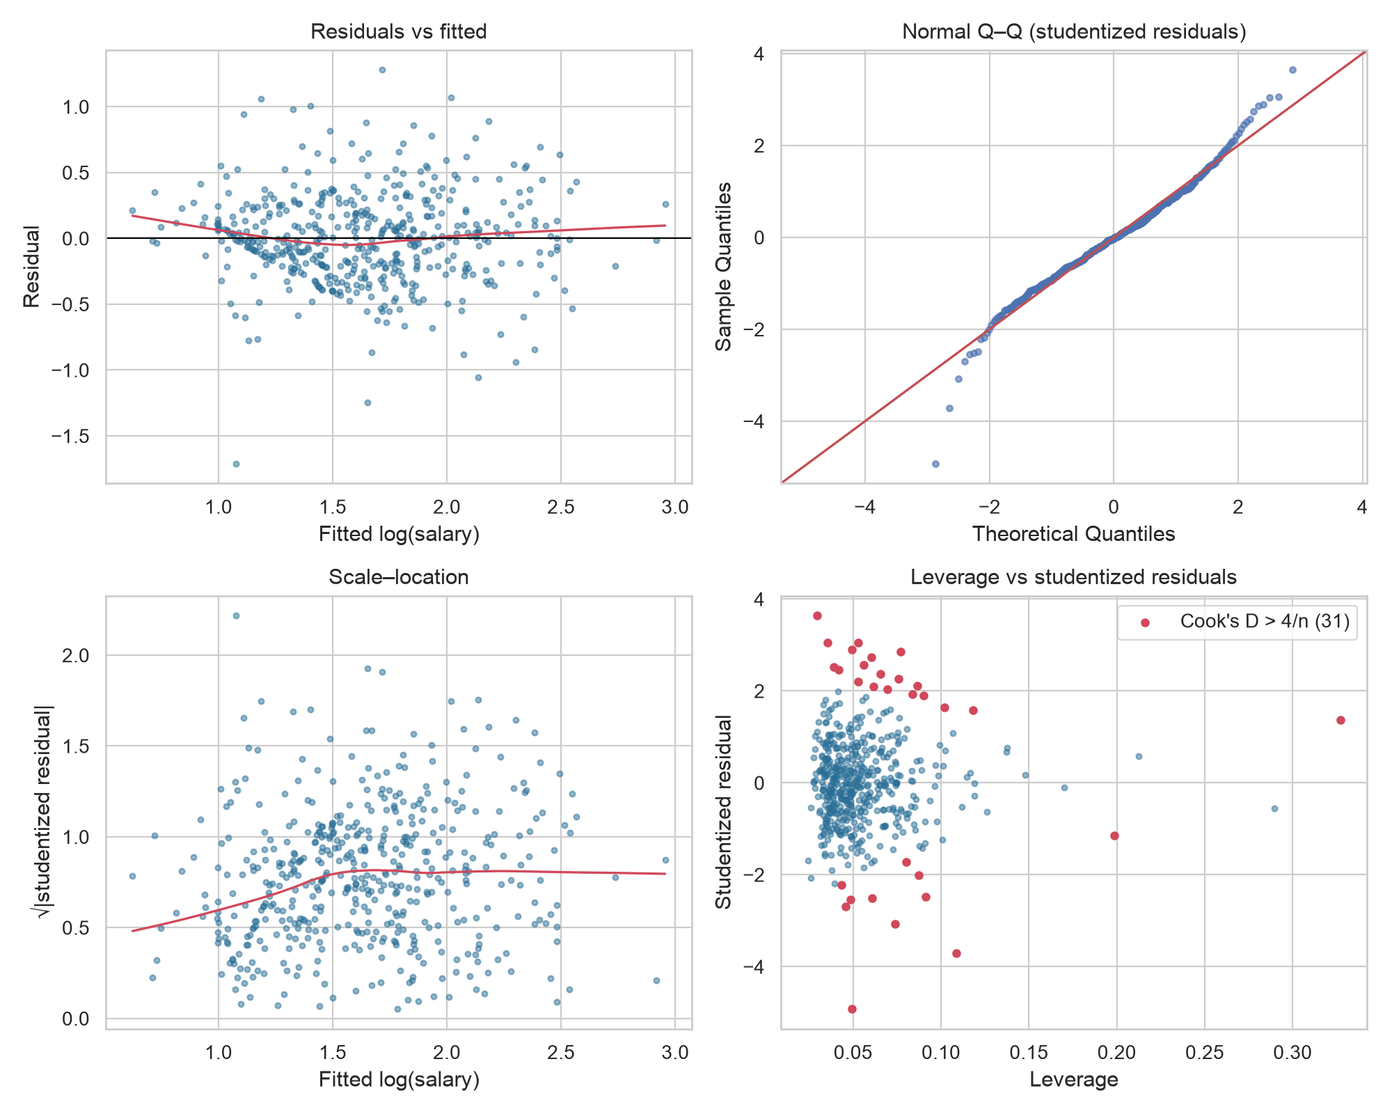
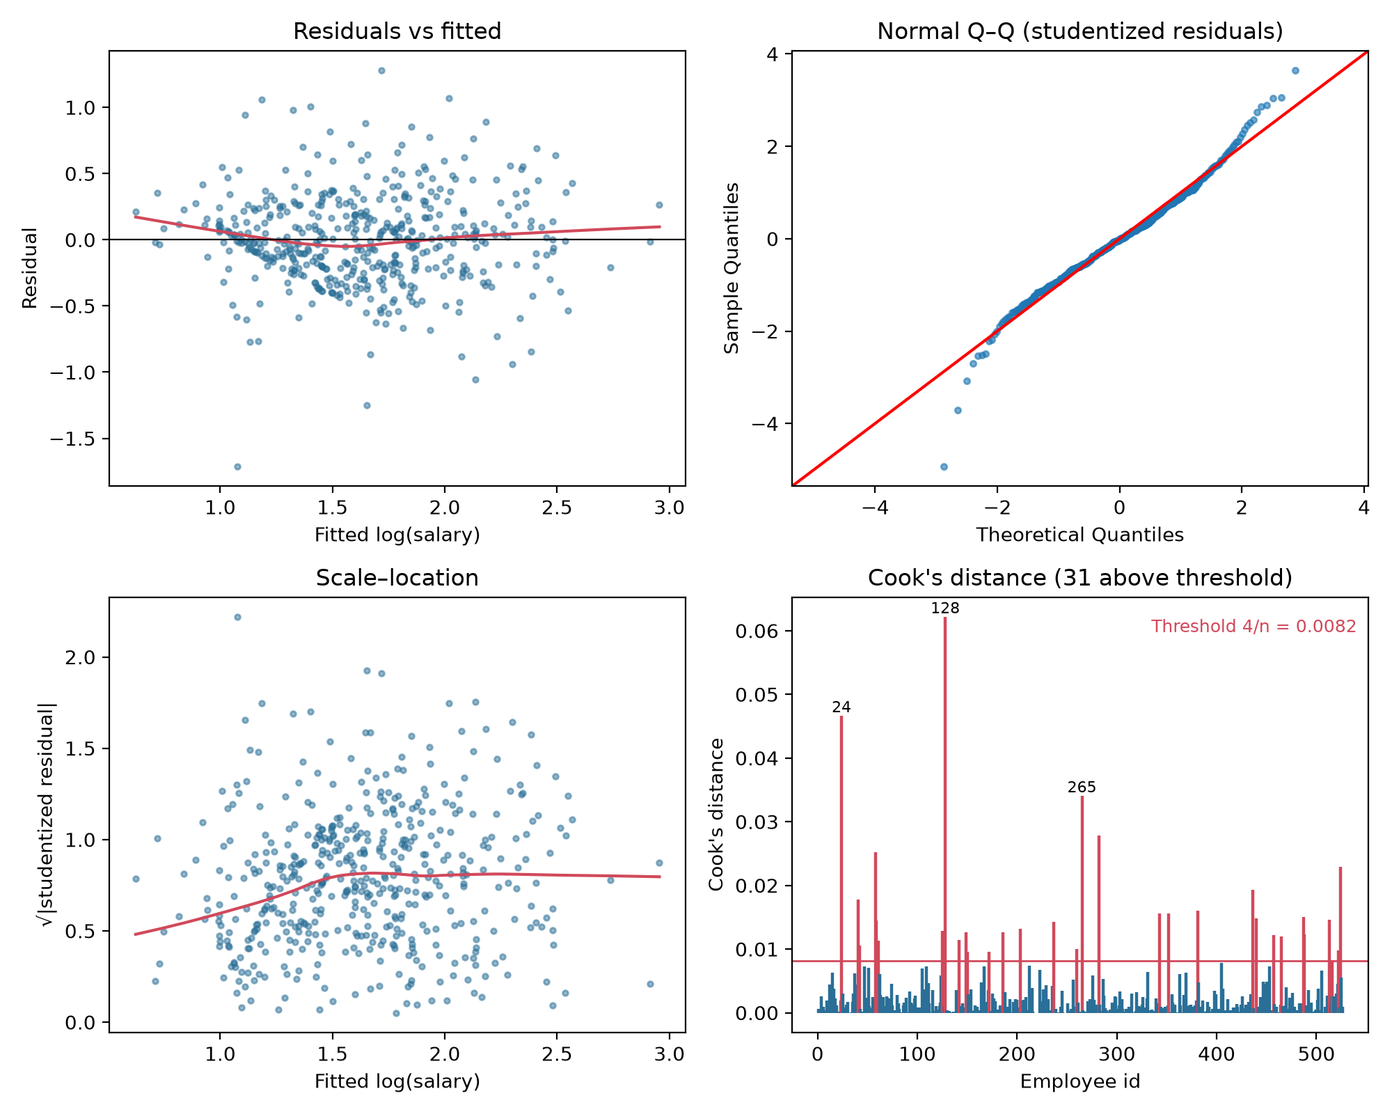
feat(diagnostics): add full White and Breusch-Godfrey tests and Cook's distance bar plot

diff --git a/src/04_diagnostics.py b/src/04_diagnostics.py
@@ -2,8 +2,8 @@
 
 Covers multicollinearity (VIF, condition number), heteroskedasticity (Breusch-Pagan,
 White), functional-form specification (Ramsey RESET), residual normality
-(Jarque-Bera), independence (Durbin-Watson), influential observations (Cook's
-distance) and robustness of the conclusions to alternative samples and estimators.
+(Jarque-Bera), independence (Durbin-Watson, Breusch-Godfrey), influential observations
+(Cook's distance) and robustness of the conclusions to alternative samples and estimators.
 """
 
 import matplotlib
@@ -15,7 +15,8 @@ import pandas as pd
 import statsmodels.api as sm
 import statsmodels.formula.api as smf
 from patsy import dmatrices
-from statsmodels.stats.diagnostic import het_breuschpagan, het_white, linear_reset
+from scipy import stats
+from statsmodels.stats.diagnostic import acorr_breusch_godfrey, het_breuschpagan, het_white, linear_reset
 from statsmodels.stats.outliers_influence import variance_inflation_factor
 from statsmodels.stats.stattools import durbin_watson, jarque_bera
 
@@ -32,22 +33,44 @@ def vif_table(formula, data) -> pd.Series:
                       if c != "Intercept"})
 
 
+def white_full(m) -> tuple[float, float, int]:
+    """Full White test: regress e² on the regressors, their squares and cross-products.
+
+    statsmodels' het_white counts every generated column, but here many are duplicates
+    (a 0/1 variable squared is itself) or identically zero (products of categories that
+    cannot occur together). Those columns are dropped and the degrees of freedom are the
+    rank of what remains, so the chi-squared test is correctly sized.
+    """
+    X = m.model.exog[:, 1:]  # drop the constant
+    k = X.shape[1]
+    cols = [X[:, i] for i in range(k)] + [X[:, i] * X[:, j] for i in range(k) for j in range(i, k)]
+    Z = np.unique(np.round(np.column_stack(cols), 10), axis=1)
+    Z = Z[:, Z.std(axis=0) > 0]
+    aux = sm.OLS(m.resid ** 2, sm.add_constant(Z)).fit()
+    df = np.linalg.matrix_rank(Z)
+    lm = len(m.resid) * aux.rsquared
+    return float(lm), float(stats.chi2.sf(lm, df)), int(df)
+
+
 def diagnostics(name, m) -> dict:
     exog = m.model.exog
     bp = het_breuschpagan(m.resid, exog)
-    # Special form of the White test (Wooldridge): regress e² on ŷ and ŷ². The full White
-    # test is not identified here because squares of the many dummies duplicate them.
+    wf, wfp, wdf = white_full(m)
+    # Special form of the White test (Wooldridge): regress e² on ŷ and ŷ².
     wh = het_white(m.resid, sm.add_constant(m.fittedvalues))
+    bg = acorr_breusch_godfrey(m, nlags=1, result_object=False)
     r2 = linear_reset(m, power=2, use_f=True)
     r23 = linear_reset(m, power=3, use_f=True)
     jb, jbp, sk, ku = jarque_bera(m.resid)
     return {"Model": name,
             "Breusch-Pagan LM": bp[0], "BP p": bp[1],
+            "White (full) LM": wf, "White (full) df": wdf, "White (full) p": wfp,
             "White (special) LM": wh[0], "White p": wh[1],
             "RESET F (ŷ²)": float(r2.fvalue), "RESET p (ŷ²)": float(r2.pvalue),
             "RESET F (ŷ², ŷ³)": float(r23.fvalue), "RESET p (ŷ², ŷ³)": float(r23.pvalue),
             "Jarque-Bera": jb, "JB p": jbp, "Skew": sk, "Kurtosis": ku,
             "Durbin-Watson": durbin_watson(m.resid),
+            "Breusch-Godfrey LM (lag 1)": bg[0], "BG p": bg[1],
             "Condition no.": np.linalg.cond(m.model.exog)}
 
 
@@ -107,12 +130,12 @@ def main() -> None:
                     sample.assign(resid=ols_pref.resid)).fit()
     weights = 1 / np.exp(w_aux.fittedvalues)
     robust = {
-        f"{PREFERRED} baseline": rob_pref,
-        "M6 (fewer interactions)": fit(FORMULAS["M6"], sample),
-        "Original values (no imputation)": fit(f_pref, original),
-        "Drop imputed rows": fit(f_pref, sample[~imputed_rows]),
-        "Drop influential (Cook's D > 4/n)": fit(f_pref, sample[~influential]),
-        "FGLS (WLS on estimated variance)": smf.wls(f_pref, sample, weights=weights).fit(cov_type="HC3"),
+        PREFERRED: rob_pref,
+        "M6": fit(FORMULAS["M6"], sample),
+        "Original values": fit(f_pref, original),
+        "Drop imputed": fit(f_pref, sample[~imputed_rows]),
+        "Drop influential": fit(f_pref, sample[~influential]),
+        "WLS": smf.wls(f_pref, sample, weights=weights).fit(cov_type="HC3"),
     }
     tab = side_by_side(robust)
     keep = [label(t) for t in ["edu", "I(edu ** 2)", "exper", "I(exper ** 2)", "ten", "I(ten ** 2)", "female",
@@ -139,11 +162,16 @@ def main() -> None:
     lw = sm.nonparametric.lowess(sl, fitted)
     ax[1, 0].plot(lw[:, 0], lw[:, 1], color=ORANGE)
     ax[1, 0].set(title="Scale–location", xlabel="Fitted log(salary)", ylabel="√|studentized residual|")
-    ax[1, 1].scatter(infl.hat_matrix_diag, stud, s=8, alpha=.5, color=BLUE)
-    big = np.where(influential)[0]
-    ax[1, 1].scatter(infl.hat_matrix_diag[big], stud[big], s=14, color=ORANGE, label=f"Cook's D > 4/n ({len(big)})")
-    ax[1, 1].set(title="Leverage vs studentized residuals", xlabel="Leverage", ylabel="Studentized residual")
-    ax[1, 1].legend()
+    # Cook's distance bar plot with the 4/n threshold (the course's ols_plot_cooksd_bar).
+    ids = sample["id"].astype(int).to_numpy()
+    ax[1, 1].vlines(ids, 0, cooks, colors=np.where(influential, ORANGE, BLUE), lw=1.6)
+    ax[1, 1].axhline(cut, color=ORANGE, lw=1)
+    ax[1, 1].text(0.98, 0.95, f"Threshold 4/n = {cut:.4f}", transform=ax[1, 1].transAxes,
+                  ha="right", va="top", color=ORANGE, fontsize=9)
+    for i in np.argsort(cooks)[-3:]:
+        ax[1, 1].annotate(str(ids[i]), (ids[i], cooks[i]), fontsize=8, ha="center", va="bottom")
+    ax[1, 1].set(title=f"Cook's distance ({int(influential.sum())} above threshold)",
+                 xlabel="Employee id", ylabel="Cook's distance")
     fig.tight_layout()
     fig.savefig(FIG_DIR / "fig6_residual_diagnostics.png", dpi=200)
     plt.close(fig)
@@ -197,7 +225,10 @@ def main() -> None:
         "reset_log_p2": pr["RESET p (ŷ²)"], "reset_level_p": lvl["RESET p (ŷ², ŷ³)"],
         "jb_log": pr["Jarque-Bera"], "jb_log_p": pr["JB p"], "skew_resid": pr["Skew"], "kurt_resid": pr["Kurtosis"],
         "jb_level": lvl["Jarque-Bera"], "skew_resid_level": lvl["Skew"],
-        "dw": pr["Durbin-Watson"], "cond_raw": pr["Condition no."], "cond_centred": np.linalg.cond(ols_c.model.exog),
+        "dw": pr["Durbin-Watson"], "bg": pr["Breusch-Godfrey LM (lag 1)"], "bg_p": pr["BG p"],
+        "white_full_log": pr["White (full) LM"], "white_full_log_p": pr["White (full) p"],
+        "white_full_log_df": pr["White (full) df"], "white_full_level_p": lvl["White (full) p"],
+        "white_full_m3_p": m3["White (full) p"], "cond_raw": pr["Condition no."], "cond_centred": np.linalg.cond(ols_c.model.exog),
         "n_influential": int(influential.sum()), "cooks_cut": cut, "cooks_max": float(cooks.max()),
         "se_ratio_max": se["SE ratio (robust/classical)"].max(), "se_ratio_min": se["SE ratio (robust/classical)"].min(),
         "reset_m6_p": float(linear_reset(smf.ols(FORMULAS["M6"], sample).fit(), power=3, use_f=True).pvalue),

diff --git a/output/tables/robustness.md b/output/tables/robustness.md
@@ -1,41 +1,41 @@
-| Variable             | M7 baseline   | M6 (fewer interactions)   | Original values (no imputation)   | Drop imputed rows   | Drop influential (Cook's D > 4/n)   | FGLS (WLS on estimated variance)   |
-|:---------------------|:--------------|:--------------------------|:----------------------------------|:--------------------|:------------------------------------|:-----------------------------------|
-| Education (yrs)      | -0.0738       | -0.0832                   | -0.0239                           | -0.0532             | -0.0328                             | -0.0689                            |
-|                      | (0.0584)      | (0.0571)                  | (0.0327)                          | (0.0610)            | (0.0414)                            | (0.0525)                           |
-| Experience (yrs)     | 0.0292***     | 0.0283***                 | 0.0280***                         | 0.0286***           | 0.0254***                           | 0.0250***                          |
-|                      | (0.0055)      | (0.0053)                  | (0.0054)                          | (0.0057)            | (0.0044)                            | (0.0055)                           |
-| Tenure (yrs)         | 0.0274***     | 0.0209***                 | 0.0288***                         | 0.0298***           | 0.0371***                           | 0.0348***                          |
-|                      | (0.0083)      | (0.0075)                  | (0.0082)                          | (0.0088)            | (0.0066)                            | (0.0084)                           |
-| Female               | -0.1006*      | -0.1249**                 | -0.1013*                          | -0.1155*            | -0.0774*                            | -0.1140**                          |
-|                      | (0.0599)      | (0.0585)                  | (0.0599)                          | (0.0628)            | (0.0455)                            | (0.0551)                           |
-| Non-privileged       | -0.0086       | -0.0019                   | -0.0025                           | -0.0165             | 0.0265                              | -0.0189                            |
-|                      | (0.0605)      | (0.0599)                  | (0.0609)                          | (0.0657)            | (0.0452)                            | (0.0584)                           |
-| Married              | 0.2655***     | 0.1826***                 | 0.2496***                         | 0.2665***           | 0.2964***                           | 0.2650***                          |
-|                      | (0.0677)      | (0.0592)                  | (0.0676)                          | (0.0690)            | (0.0553)                            | (0.0642)                           |
-| Dependents           | -0.0353**     | -0.0365***                | -0.0303**                         | -0.0316**           | -0.0350***                          | -0.0301**                          |
-|                      | (0.0140)      | (0.0138)                  | (0.0137)                          | (0.0143)            | (0.0106)                            | (0.0137)                           |
-| Metro area           | 0.1353***     | 0.1363***                 | 0.1320***                         | 0.1429***           | 0.1170***                           | 0.1073**                           |
-|                      | (0.0431)      | (0.0429)                  | (0.0433)                          | (0.0420)            | (0.0320)                            | (0.0425)                           |
-| IT architecture      | -0.3116***    | -0.3128***                | -0.3119***                        | -0.3019***          | -0.2968***                          | -0.3087***                         |
-|                      | (0.0557)      | (0.0550)                  | (0.0538)                          | (0.0569)            | (0.0467)                            | (0.0557)                           |
-| AI applications      | -0.3118***    | -0.3197***                | -0.3118***                        | -0.2860***          | -0.3045***                          | -0.3451***                         |
-|                      | (0.0769)      | (0.0782)                  | (0.0762)                          | (0.0813)            | (0.0575)                            | (0.0800)                           |
-| R&D division         | 0.2007***     | 0.1977***                 | 0.1873***                         | 0.1995***           | 0.2199***                           | 0.1920***                          |
-|                      | (0.0521)      | (0.0517)                  | (0.0518)                          | (0.0523)            | (0.0421)                            | (0.0525)                           |
-| Works from home      | -0.1102*      | -0.1098*                  | -0.1101*                          | -0.0882             | -0.0800*                            | -0.0946*                           |
-|                      | (0.0595)      | (0.0604)                  | (0.0591)                          | (0.0613)            | (0.0471)                            | (0.0566)                           |
-| Education²           | 0.0049**      | 0.0053**                  | 0.0031**                          | 0.0041*             | 0.0032**                            | 0.0047**                           |
-|                      | (0.0023)      | (0.0022)                  | (0.0014)                          | (0.0024)            | (0.0016)                            | (0.0021)                           |
-| Experience²          | -0.0006***    | -0.0006***                | -0.0005***                        | -0.0005***          | -0.0004***                          | -0.0004***                         |
-|                      | (0.0001)      | (0.0001)                  | (0.0001)                          | (0.0001)            | (0.0001)                            | (0.0001)                           |
-| Tenure²              | -0.0004       | -0.0003                   | -0.0005*                          | -0.0005             | -0.0007***                          | -0.0007**                          |
-|                      | (0.0003)      | (0.0003)                  | (0.0003)                          | (0.0003)            | (0.0002)                            | (0.0003)                           |
-| Female × Married     | -0.1961**     | -0.2319***                | -0.1920**                         | -0.1853**           | -0.2123***                          | -0.1598**                          |
-|                      | (0.0766)      | (0.0736)                  | (0.0760)                          | (0.0806)            | (0.0583)                            | (0.0700)                           |
-| Female × Tenure      | -0.0125**     |                           | -0.0140**                         | -0.0139**           | -0.0181***                          | -0.0164***                         |
-|                      | (0.0056)      |                           | (0.0057)                          | (0.0066)            | (0.0041)                            | (0.0059)                           |
-| Married × Experience | -0.0066**     |                           | -0.0064**                         | -0.0071**           | -0.0084***                          | -0.0084***                         |
-|                      | (0.0029)      |                           | (0.0028)                          | (0.0030)            | (0.0024)                            | (0.0026)                           |
-| N                    | 490           | 490                       | 490                               | 471                 | 459                                 | 490                                |
-| R²                   | 0.580         | 0.571                     | 0.583                             | 0.588               | 0.702                               | 0.621                              |
-| Adj. R²              | 0.556         | 0.548                     | 0.560                             | 0.564               | 0.684                               | 0.600                              |
+| Variable             | M7         | M6         | Original values   | Drop imputed   | Drop influential   | WLS        |
+|:---------------------|:-----------|:-----------|:------------------|:---------------|:-------------------|:-----------|
+| Education (yrs)      | -0.0738    | -0.0832    | -0.0239           | -0.0532        | -0.0328            | -0.0689    |
+|                      | (0.0584)   | (0.0571)   | (0.0327)          | (0.0610)       | (0.0414)           | (0.0525)   |
+| Experience (yrs)     | 0.0292***  | 0.0283***  | 0.0280***         | 0.0286***      | 0.0254***          | 0.0250***  |
+|                      | (0.0055)   | (0.0053)   | (0.0054)          | (0.0057)       | (0.0044)           | (0.0055)   |
+| Tenure (yrs)         | 0.0274***  | 0.0209***  | 0.0288***         | 0.0298***      | 0.0371***          | 0.0348***  |
+|                      | (0.0083)   | (0.0075)   | (0.0082)          | (0.0088)       | (0.0066)           | (0.0084)   |
+| Female               | -0.1006*   | -0.1249**  | -0.1013*          | -0.1155*       | -0.0774*           | -0.1140**  |
+|                      | (0.0599)   | (0.0585)   | (0.0599)          | (0.0628)       | (0.0455)           | (0.0551)   |
+| Non-privileged       | -0.0086    | -0.0019    | -0.0025           | -0.0165        | 0.0265             | -0.0189    |
+|                      | (0.0605)   | (0.0599)   | (0.0609)          | (0.0657)       | (0.0452)           | (0.0584)   |
+| Married              | 0.2655***  | 0.1826***  | 0.2496***         | 0.2665***      | 0.2964***          | 0.2650***  |
+|                      | (0.0677)   | (0.0592)   | (0.0676)          | (0.0690)       | (0.0553)           | (0.0642)   |
+| Dependents           | -0.0353**  | -0.0365*** | -0.0303**         | -0.0316**      | -0.0350***         | -0.0301**  |
+|                      | (0.0140)   | (0.0138)   | (0.0137)          | (0.0143)       | (0.0106)           | (0.0137)   |
+| Metro area           | 0.1353***  | 0.1363***  | 0.1320***         | 0.1429***      | 0.1170***          | 0.1073**   |
+|                      | (0.0431)   | (0.0429)   | (0.0433)          | (0.0420)       | (0.0320)           | (0.0425)   |
+| IT architecture      | -0.3116*** | -0.3128*** | -0.3119***        | -0.3019***     | -0.2968***         | -0.3087*** |
+|                      | (0.0557)   | (0.0550)   | (0.0538)          | (0.0569)       | (0.0467)           | (0.0557)   |
+| AI applications      | -0.3118*** | -0.3197*** | -0.3118***        | -0.2860***     | -0.3045***         | -0.3451*** |
+|                      | (0.0769)   | (0.0782)   | (0.0762)          | (0.0813)       | (0.0575)           | (0.0800)   |
+| R&D division         | 0.2007***  | 0.1977***  | 0.1873***         | 0.1995***      | 0.2199***          | 0.1920***  |
+|                      | (0.0521)   | (0.0517)   | (0.0518)          | (0.0523)       | (0.0421)           | (0.0525)   |
+| Works from home      | -0.1102*   | -0.1098*   | -0.1101*          | -0.0882        | -0.0800*           | -0.0946*   |
+|                      | (0.0595)   | (0.0604)   | (0.0591)          | (0.0613)       | (0.0471)           | (0.0566)   |
+| Education²           | 0.0049**   | 0.0053**   | 0.0031**          | 0.0041*        | 0.0032**           | 0.0047**   |
+|                      | (0.0023)   | (0.0022)   | (0.0014)          | (0.0024)       | (0.0016)           | (0.0021)   |
+| Experience²          | -0.0006*** | -0.0006*** | -0.0005***        | -0.0005***     | -0.0004***         | -0.0004*** |
+|                      | (0.0001)   | (0.0001)   | (0.0001)          | (0.0001)       | (0.0001)           | (0.0001)   |
+| Tenure²              | -0.0004    | -0.0003    | -0.0005*          | -0.0005        | -0.0007***         | -0.0007**  |
+|                      | (0.0003)   | (0.0003)   | (0.0003)          | (0.0003)       | (0.0002)           | (0.0003)   |
+| Female × Married     | -0.1961**  | -0.2319*** | -0.1920**         | -0.1853**      | -0.2123***         | -0.1598**  |
+|                      | (0.0766)   | (0.0736)   | (0.0760)          | (0.0806)       | (0.0583)           | (0.0700)   |
+| Female × Tenure      | -0.0125**  |            | -0.0140**         | -0.0139**      | -0.0181***         | -0.0164*** |
+|                      | (0.0056)   |            | (0.0057)          | (0.0066)       | (0.0041)           | (0.0059)   |
+| Married × Experience | -0.0066**  |            | -0.0064**         | -0.0071**      | -0.0084***         | -0.0084*** |
+|                      | (0.0029)   |            | (0.0028)          | (0.0030)       | (0.0024)           | (0.0026)   |
+| N                    | 490        | 490        | 490               | 471            | 459                | 490        |
+| R²                   | 0.580      | 0.571      | 0.583             | 0.588          | 0.702              | 0.621      |
+| Adj. R²              | 0.556      | 0.548      | 0.560             | 0.564          | 0.684              | 0.600      |

diff --git a/output/tables/diagnostics.md b/output/tables/diagnostics.md
@@ -1,16 +1,21 @@
-| Statistic          |   M3 log(salary), linear |   M7 salary in levels |   M7 log(salary) — preferred |
-|:-------------------|-------------------------:|----------------------:|-----------------------------:|
-| Breusch-Pagan LM   |                  31.9845 |               70.0354 |                      34.1036 |
-| BP p               |                   0.0435 |                0.0000 |                       0.1324 |
-| White (special) LM |                   0.5510 |               60.9373 |                       2.3073 |
-| White p            |                   0.7592 |                0.0000 |                       0.3155 |
-| RESET F (ŷ²)       |                   9.1496 |               41.6181 |                       3.2627 |
-| RESET p (ŷ²)       |                   0.0026 |                0.0000 |                       0.0715 |
-| RESET F (ŷ², ŷ³)   |                   5.4462 |               20.9068 |                       2.4717 |
-| RESET p (ŷ², ŷ³)   |                   0.0046 |                0.0000 |                       0.0856 |
-| Jarque-Bera        |                  33.1882 |              682.2190 |                      73.2142 |
-| JB p               |                   0.0000 |                0.0000 |                       0.0000 |
-| Skew               |                   0.1446 |                1.4666 |                      -0.0186 |
-| Kurtosis           |                   4.2417 |                7.9811 |                       4.8933 |
-| Durbin-Watson      |                   1.8801 |                1.8968 |                       1.8893 |
-| Condition no.      |                 215.2704 |            16000.6154 |                   16000.6154 |
+| Statistic                  |   M3 log(salary), linear |   M7 salary in levels |   M7 log(salary) — preferred |
+|:---------------------------|-------------------------:|----------------------:|-----------------------------:|
+| Breusch-Pagan LM           |                  31.9845 |               70.0354 |                      34.1036 |
+| BP p                       |                   0.0435 |                0.0000 |                       0.1324 |
+| White (full) LM            |                 185.8977 |              287.5144 |                     323.8128 |
+| White (full) df            |                 191.0000 |              319.0000 |                     319.0000 |
+| White (full) p             |                   0.5907 |                0.8968 |                       0.4145 |
+| White (special) LM         |                   0.5510 |               60.9373 |                       2.3073 |
+| White p                    |                   0.7592 |                0.0000 |                       0.3155 |
+| RESET F (ŷ²)               |                   9.1496 |               41.6181 |                       3.2627 |
+| RESET p (ŷ²)               |                   0.0026 |                0.0000 |                       0.0715 |
+| RESET F (ŷ², ŷ³)           |                   5.4462 |               20.9068 |                       2.4717 |
+| RESET p (ŷ², ŷ³)           |                   0.0046 |                0.0000 |                       0.0856 |
+| Jarque-Bera                |                  33.1882 |              682.2190 |                      73.2142 |
+| JB p                       |                   0.0000 |                0.0000 |                       0.0000 |
+| Skew                       |                   0.1446 |                1.4666 |                      -0.0186 |
+| Kurtosis                   |                   4.2417 |                7.9811 |                       4.8933 |
+| Durbin-Watson              |                   1.8801 |                1.8968 |                       1.8893 |
+| Breusch-Godfrey LM (lag 1) |                   1.7520 |                1.3139 |                       1.5282 |
+| BG p                       |                   0.1856 |                0.2517 |                       0.2164 |
+| Condition no.              |                 215.2704 |            16000.6154 |                   16000.6154 |
